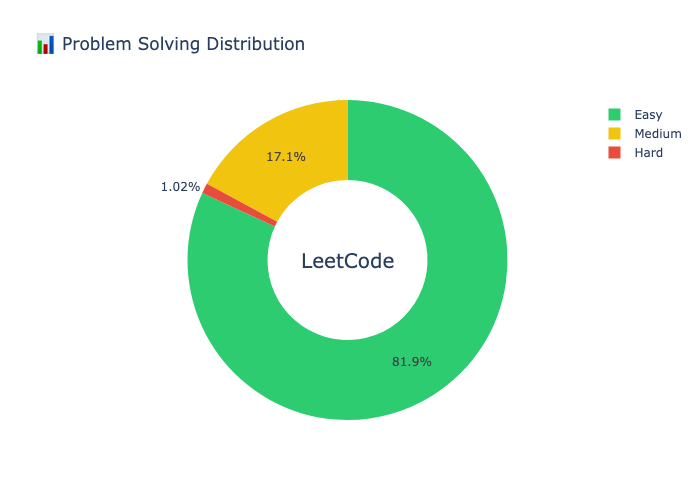
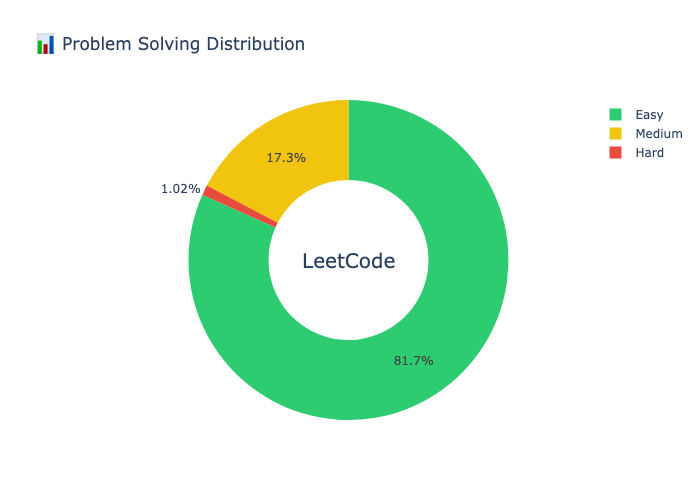
Updated code

diff --git a/README.md b/README.md
@@ -11,18 +11,18 @@ Welcome to my repository, where I document my journey of solving coding challeng
 
 ## 🚀 Contest Performance  
 - **Contest Rating**: N/A  
-- **Global Ranking**: 255445 / N/A  
+- **Global Ranking**: 254759 / N/A  
 - **Contests Attended**: 1  
 - **Top Rank Achieved**: N/A%  
 
 ---
 
 ## 💡 Problem-Solving Stats  
-- **Acceptance Rate**: 37.28%  
+- **Acceptance Rate**: 37.24%  
 |----------------|---------------------|---------------------|----------------|  
-| 🟢 Easy        | 321 / 899          | 37.28%              |
-| 🟡 Medium      | 67 / 1918         | 37.28%             |
-| 🔴 Hard        | 4 / 869            | 37.28%             |
+| 🟢 Easy        | 321 / 899          | 37.24%              |
+| 🟡 Medium      | 68 / 1918         | 37.24%             |
+| 🔴 Hard        | 4 / 869            | 37.24%             |
 
 ---
 
@@ -71,20 +71,20 @@ Welcome to my repository, where I document my journey of solving coding challeng
 
 ## 🚀 Contest Performance  
 - **Contest Rating**: N/A  
-- **Global Ranking**: 255445 / N/A  
+- **Global Ranking**: 254759 / N/A  
 - **Contests Attended**: 3  
 - **Top Rank Achieved**: N/A%  
 
 ---
 
 ## 💡 Problem-Solving Stats  
-- **Acceptance Rate**: 37.28%  
+- **Acceptance Rate**: 37.24%  
 
 | Difficulty | Solved / Total | Acceptance Rate |
 |------------|----------------|-----------------|
-| 🟢 Easy        | 321 / 899          | 37.28%              |
-| 🟡 Medium      | 67 / 1918         | 37.28%             |
-| 🔴 Hard        | 4 / 869            | 37.28%             |
+| 🟢 Easy        | 321 / 899          | 37.24%              |
+| 🟡 Medium      | 68 / 1918         | 37.24%             |
+| 🔴 Hard        | 4 / 869            | 37.24%             |
 
 --
 
